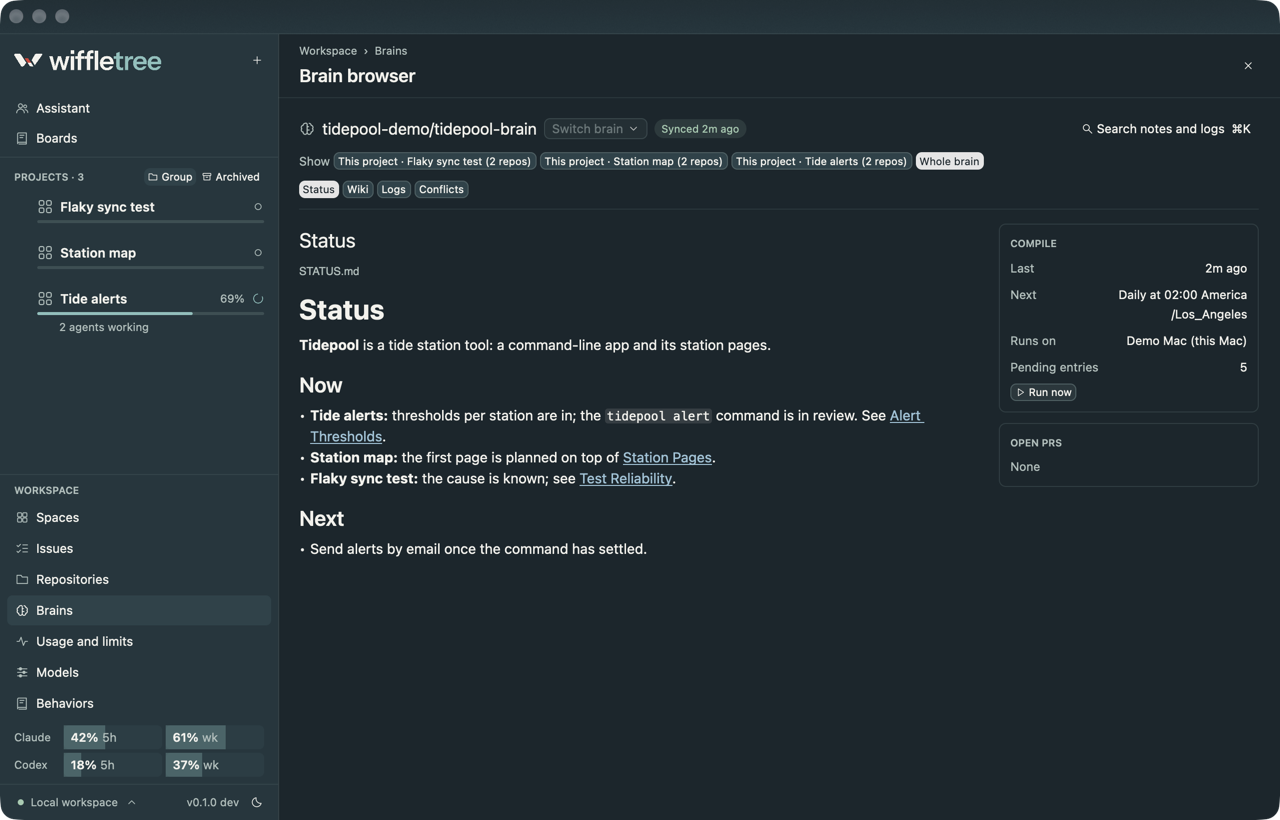
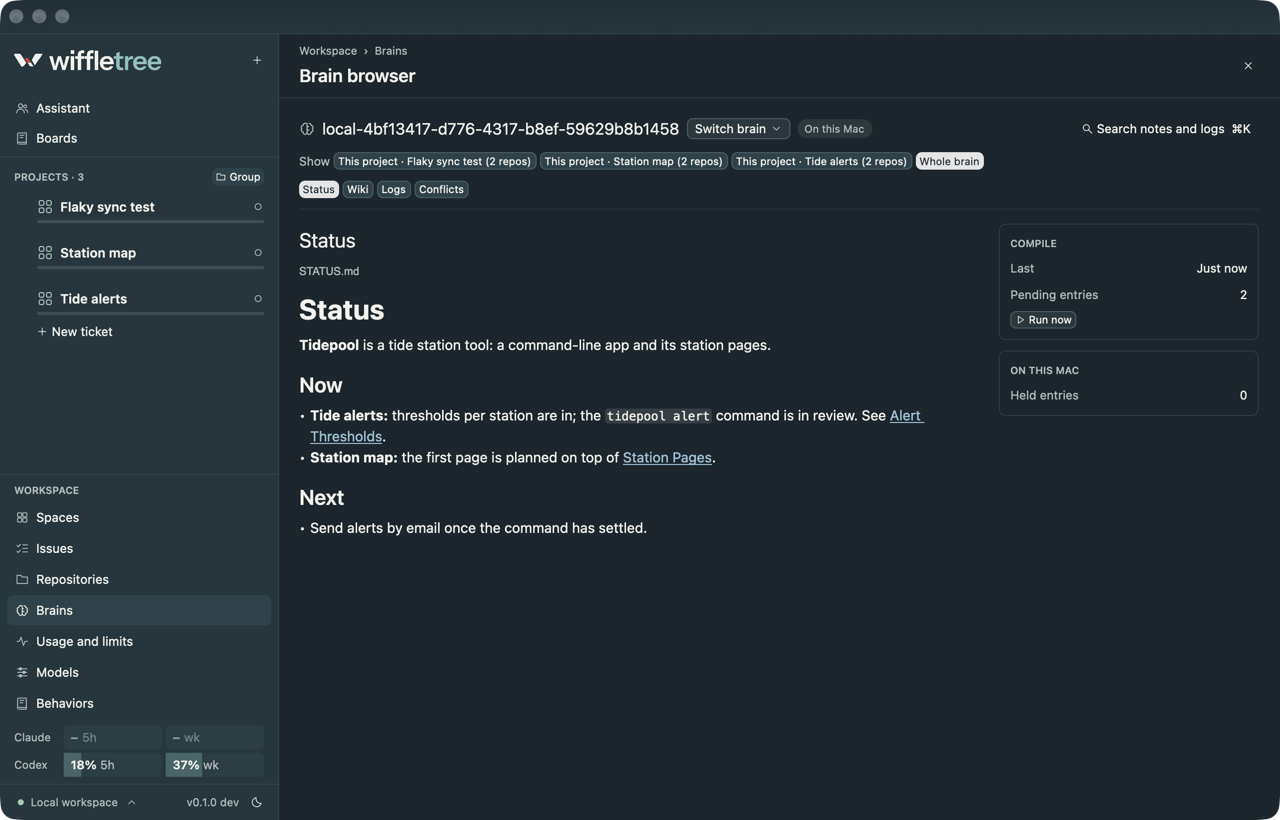
Retake the Spaces and brain browser screenshots from the current app (#248)
The Spaces shot still showed the brain gate row and the old brain browser still showed its Open PR panel, both removed when a Space moved to one repository. Retaken from a throwaway demo store (Tidepool, stand-in CLIs), same 1280x820 window; the Spaces alt text now describes the Repository box.

diff --git a/README.md b/README.md
@@ -59,8 +59,8 @@ The full explanation of everything below is in **[docs/FEATURES.md](docs/FEATURE
     <td align="center"><sub>Reviews keep each round and finding.</sub></td>
   </tr>
   <tr>
-    <td><img src="docs/images/spaces.png" alt="The Spaces page for the Tidepool Space, with its description, brain, compile time, brain gate, code repositories and sources"></td>
-    <td><img src="docs/images/brain.png" alt="The brain browser's Status view for a demo brain, with its status note, compile times and five pending entries"></td>
+    <td><img src="docs/images/spaces.png" alt="The Spaces page for the Tidepool Space, with its description, code repositories and sources above a Repository box that shows where the Space's storage is, who can read it, its issue, log and wiki counts and its compile time"></td>
+    <td><img src="docs/images/brain.png" alt="The brain browser's Status view for a demo wiki, with its status note, last compile time and two pending entries"></td>
   </tr>
   <tr>
     <td align="center"><sub>A Space holds a brain, repositories and rules.</sub></td>
